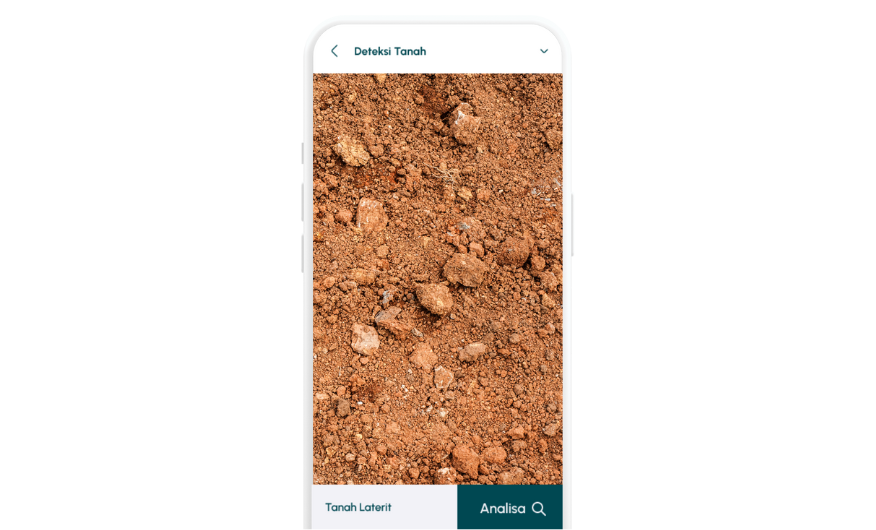
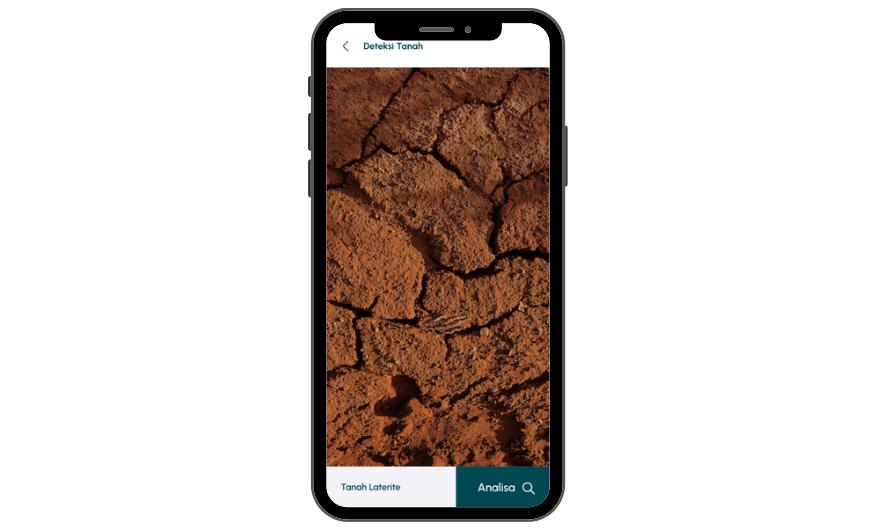
add gambar and change it

Changed region(s): [[0.339, 0.0, 0.6473, 1.0]]

diff --git a/src/content/homepage/index.md b/src/content/homepage/index.md
@@ -66,7 +66,7 @@ Deskripsi: Dengan menggunakan teknologi terkini dalam analisis ta"
   - title: "Solusi Inovatif untuk Pengendalian Hama dan Penyakit Tanaman"
     content: "Deskripsi: Terrafarms menawarkan solusi inovatif dalam pengendalian hama dan penyakit tanaman. Melalui penerapan teknologi terbaru, kami dapat mendeteksi secara dini keberadaan hama dan penyakit tanaman serta memberikan rekomendasi pengendalian yang efektif. Dengan bantuan solusi kami, petani dapat mengurangi kerugian panen akibat serangan hama dan penyakit, serta menjaga kesehatan dan produktivitas tanaman secara berkelanjutan."
     images:
-      - "/images/bannerart4.png"
+      - "/images/bannerart3 (2).png"
       
     button:
       enable: true
